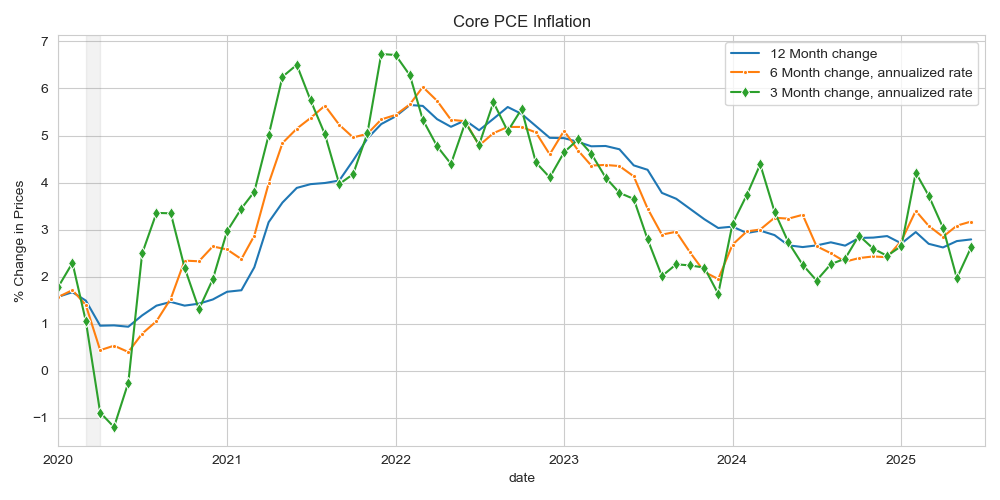
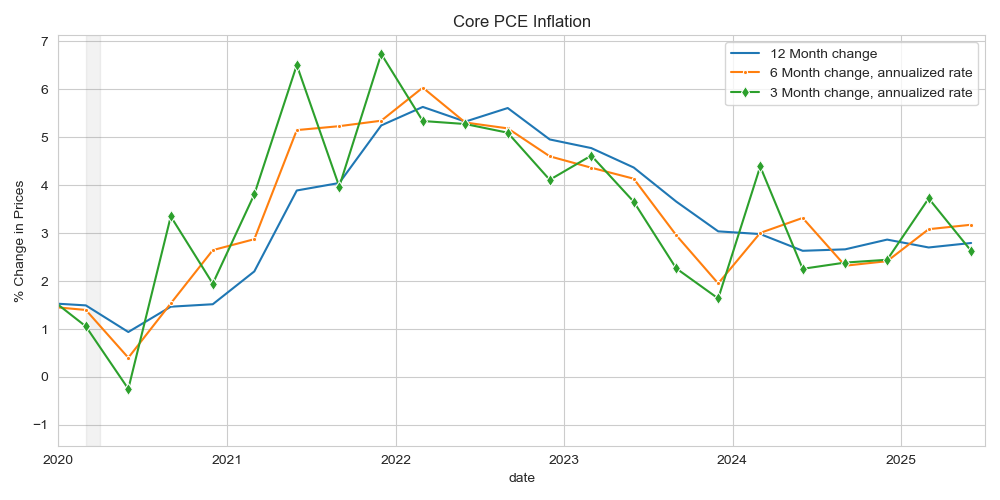
330hw1q3 - change grph to show every third month

Changed region(s): [[0.031, 0.09, 0.992, 0.87]]

diff --git a/330/hw/hw1-inflation/hw1-inflation.py b/330/hw/hw1-inflation/hw1-inflation.py
@@ -96,14 +96,18 @@ df['π_pce_core_3m'] = annualized_pct_change('PCE excluding food and energy4', 3
 # df['PCE excluding food and energy4'].plot(secondary_y=True, linestyle='--', color='gray', alpha=0.5)
 # df['Personal consumption expenditures (PCE)'].plot(secondary_y=True, linestyle='--', color='gray', alpha=0.5)
 
+# df3 = df.copy()
+df3 = df[(df.index.month.isin([3,6,9,12])) & (df.index.year >= 1995)].copy()
 
 
 plt.figure(figsize=(10, 5))
 
 # plt.plot(df.index, df['π_pce'], label='Headline PCE')
-sns.lineplot(data=df, x=df.index, y='π_pce_core', label='12 Month change',)
-sns.lineplot(data=df, x=df.index, y='π_pce_core_6m', label='6 Month change, annualized rate', linestyle='--', marker='o')
-sns.lineplot(data=df, x=df.index, y='π_pce_core_3m', label='3 Month change, annualized rate', linestyle='-.', marker='s')
+sns.lineplot(data=df3, x=df3.index, y='π_pce_core', label='12 Month change',)
+sns.lineplot(data=df3, x=df3.index, y='π_pce_core_6m', 
+             label='6 Month change, annualized rate', marker='.')
+sns.lineplot(data=df3, x=df3.index, y='π_pce_core_3m', 
+             label='3 Month change, annualized rate',  marker='d')
 
 plt.title('Core PCE Inflation',)
 # plt.suptitle('Core PCE Inflation at Different Frequencies',
